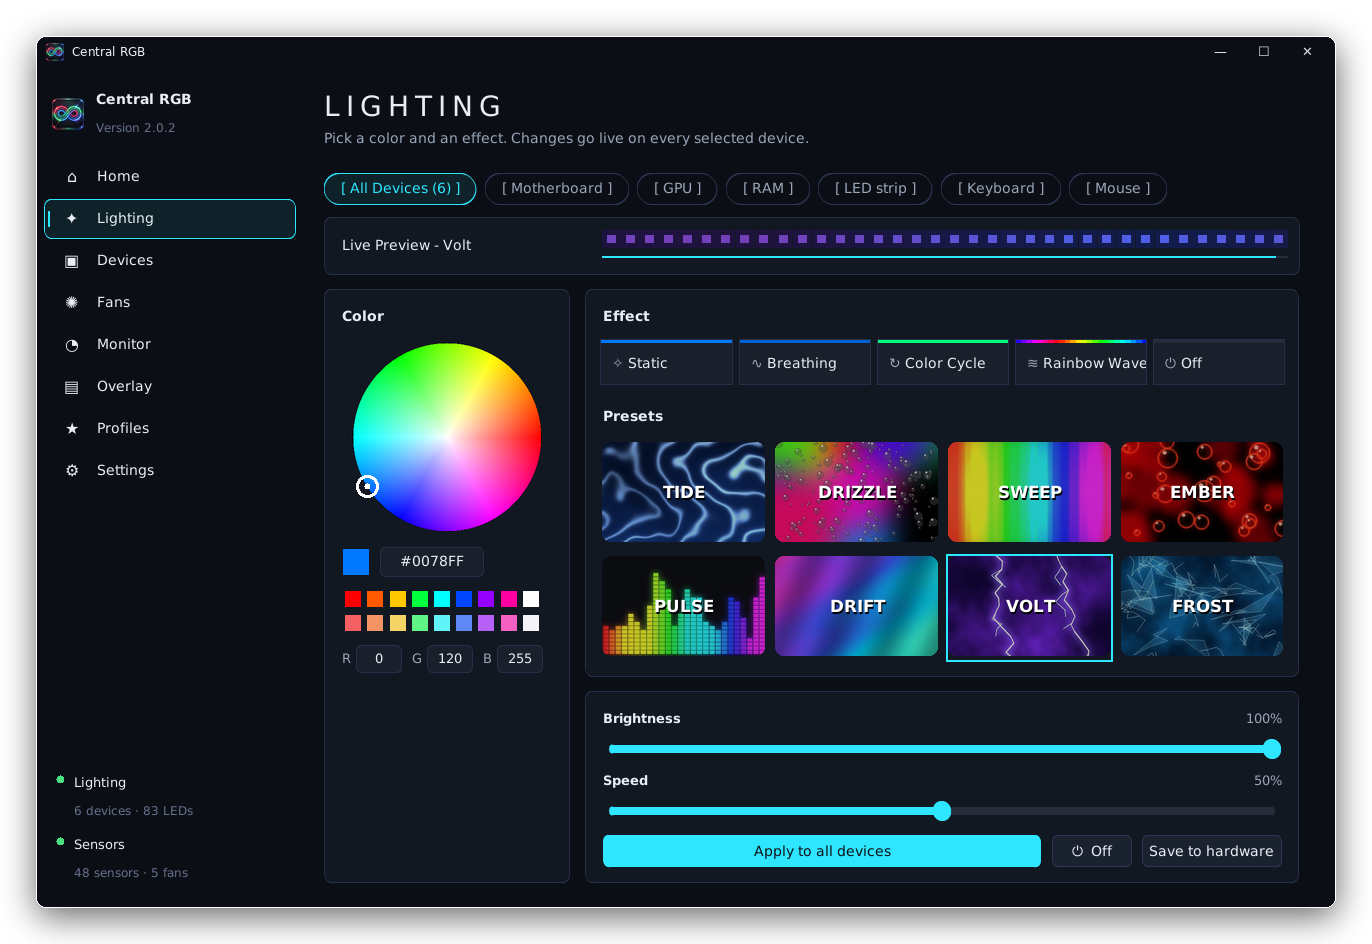
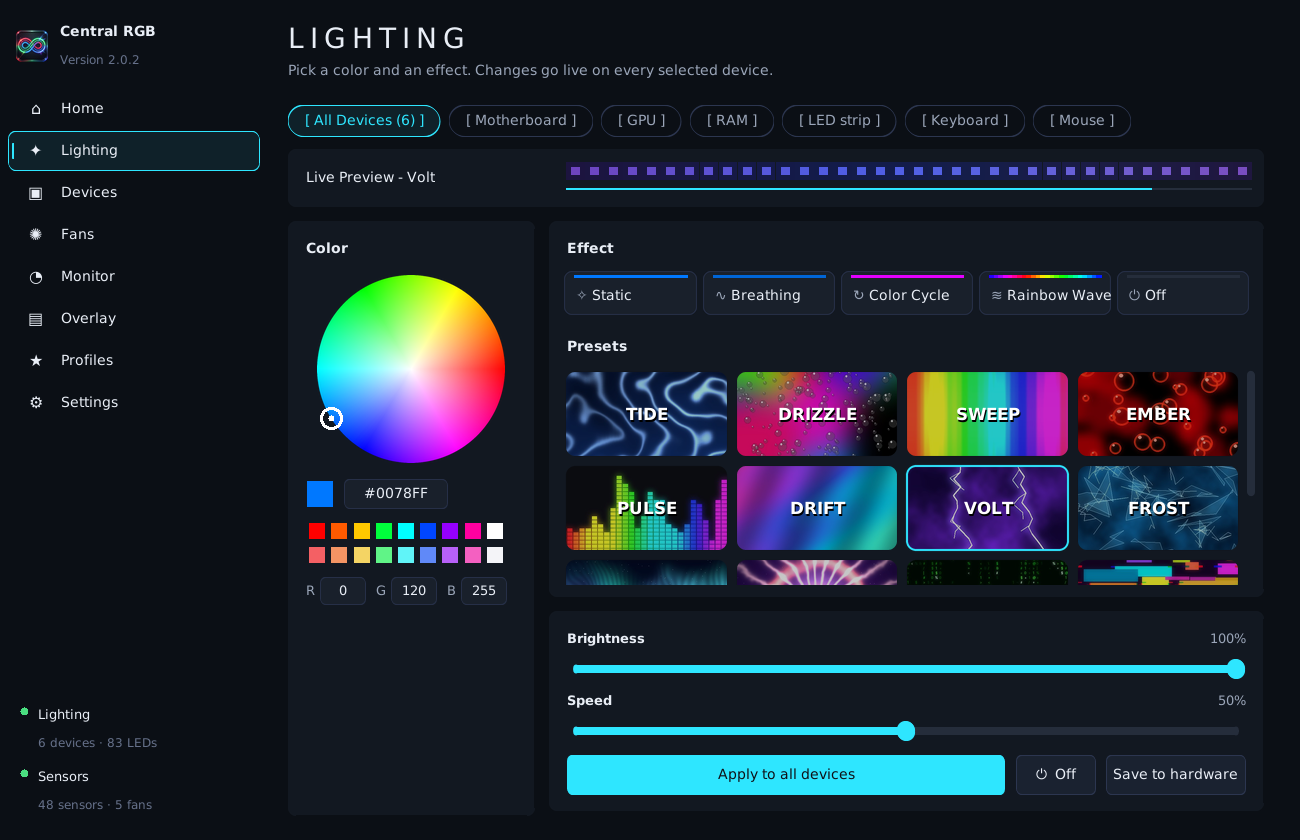
Eight new presets: Aurora, Supernova, Cascade, Cyberpunk, Magma, Stardust, Nebula, Eclipse
- Live effects for each, plus original preview artwork from tools/make_preset_art.py
- Preset gallery scrolls (two and a half rows show) so the page still fits

diff --git a/tools/make_preset_art.py b/tools/make_preset_art.py
@@ -179,11 +179,162 @@ def black_ice():
     return glow(img, 6, 0.6)
 
 
+def aurora():
+    n = noise(160, 3)
+    col = lerp((2, 6, 20), (6, 18, 48), Y / H)
+    for k, (c, x0) in enumerate((((40, 255, 160), 0.30), ((60, 220, 255), 0.55), ((170, 90, 255), 0.78))):
+        # tall flowing curtains: bright at the bottom edge, fading upwards
+        wave = np.sin(X / (60 + 25 * k) + n * 5 + k * 1.7) * 38
+        edge = H * (0.62 + 0.08 * k) + wave
+        up = np.clip((edge - Y) / (H * 0.55), 0, 1)
+        band = np.where(Y < edge, (1 - up) ** 1.6, np.exp(-(Y - edge) / 6)) * (0.45 + 0.55 * n)
+        stripes = 0.65 + 0.35 * np.sin(X / 5.5 + n * 20) ** 2
+        col = col + band[..., None] * stripes[..., None] * np.array(c, np.float32) * 0.75
+    img = to_img(col)
+    d = ImageDraw.Draw(img)
+    for _ in range(90):
+        x, y = rng.randint(0, W), rng.randint(0, int(H * 0.45))
+        v = rng.randint(120, 255)
+        d.point((x, y), fill=(v, v, v))
+    return glow(img, 10, 0.55)
+
+
+def supernova():
+    cx, cy = W * 0.5, H * 0.52
+    r = np.hypot(X - cx, Y - cy) + 1e-3
+    ang = np.arctan2(Y - cy, X - cx)
+    n = noise(70, 4)
+    rays = (0.5 + 0.5 * np.sin(ang * 23 + n * 4)) ** 6 * np.exp(-r / 210)
+    core = np.exp(-r / 26)
+    shell = np.exp(-((r - 118 - n * 30) / 16) ** 2)
+    col = lerp((4, 2, 22), (40, 10, 70), np.exp(-r / 260))
+    col = col + shell[..., None] * np.array([255, 120, 60], np.float32) * (0.5 + n[..., None])
+    col = col + rays[..., None] * np.array([255, 210, 170], np.float32) * 1.4
+    col = col + core[..., None] * np.array([255, 245, 230], np.float32) * 2.2
+    col = col + np.exp(-r / 70)[..., None] * np.array([200, 80, 255], np.float32) * 0.6
+    img = to_img(col)
+    d = ImageDraw.Draw(img)
+    for _ in range(140):
+        x, y = rng.randint(0, W), rng.randint(0, H)
+        v = rng.randint(90, 255)
+        d.point((x, y), fill=(v, v, int(v * 0.9)))
+    return glow(img, 8, 0.6)
+
+
+def cascade():
+    img = Image.new("RGB", (W, H), (0, 6, 2))
+    d = ImageDraw.Draw(img)
+    glyphs = "01<>/\\|=+*#%&$@"
+    for col in range(0, W, 12):
+        head = rng.randint(-40, H + 60)
+        length = rng.randint(60, 220)
+        for y in range(0, H, 14):
+            dist = head - y
+            if 0 <= dist <= length:
+                k = 1 - dist / length
+                g = int(60 + 195 * k)
+                c = (int(200 * k ** 6), g, int(90 * k ** 3))
+                ch = rng.choice(glyphs)
+                if dist < 14:
+                    c = (210, 255, 220)
+                d.text((col, y), ch, fill=c)
+            elif rng.random() < 0.05:
+                d.text((col, y), rng.choice(glyphs), fill=(0, 45, 12))
+    return glow(img, 4, 0.9)
+
+
+def cyberpunk():
+    img = Image.new("RGB", (W, H), (18, 4, 30))
+    d = ImageDraw.Draw(img)
+    pal = [(255, 40, 200), (0, 240, 255), (255, 230, 40), (140, 60, 255), (255, 90, 120)]
+    for _ in range(70):                                            # glitch blocks
+        w, h = rng.randint(30, 180), rng.randint(6, 40)
+        x, y = rng.randint(-40, W), rng.randint(0, H)
+        c = rng.choice(pal)
+        d.rectangle((x, y, x + w, y + h), fill=tuple(int(v * rng.uniform(0.45, 1.0)) for v in c))
+    a = np.asarray(img, np.float32)
+    for _ in range(12):                                            # RGB channel shifts on scanline bands
+        y0 = rng.randint(0, H - 20)
+        h = rng.randint(4, 22)
+        shift = rng.randint(-26, 26)
+        a[y0:y0 + h, :, 0] = np.roll(a[y0:y0 + h, :, 0], shift, axis=1)
+        a[y0:y0 + h, :, 2] = np.roll(a[y0:y0 + h, :, 2], -shift, axis=1)
+    a *= (0.82 + 0.18 * (np.arange(H) % 3 != 0))[:, None, None]     # scanlines
+    return glow(to_img(a), 6, 0.45)
+
+
+def magma():
+    n = noise(110, 5)
+    cells = np.abs(np.sin(X / 34 + n * 9) * np.sin(Y / 30 + n * 7))
+    veins = np.exp(-cells * 9)
+    col = lerp((14, 2, 2), (60, 8, 4), n)
+    hot = np.clip(veins * (0.4 + n), 0, 1)
+    col = col + hot[..., None] * np.array([255, 110, 20], np.float32)
+    col = col + (hot ** 3)[..., None] * np.array([255, 220, 120], np.float32)
+    return glow(to_img(col), 7, 0.7)
+
+
+def stardust():
+    n = noise(150, 4)
+    col = lerp((2, 4, 16), (24, 20, 60), n ** 1.5)
+    col = col + (np.clip(n - 0.55, 0, 1) * 2)[..., None] * np.array([60, 40, 110], np.float32)
+    img = to_img(col)
+    d = ImageDraw.Draw(img)
+    for _ in range(700):
+        x, y = rng.randint(0, W), rng.randint(0, H)
+        v = rng.random()
+        c = (255, int(200 + 55 * v), int(140 + 100 * v)) if rng.random() < 0.5 else (200, 220, 255)
+        size = 0 if v < 0.85 else 1
+        d.ellipse((x - size, y - size, x + size, y + size), fill=tuple(int(ch * (0.35 + 0.65 * v)) for ch in c))
+    for _ in range(14):                                            # a few bright stars with spikes
+        x, y = rng.randint(0, W), rng.randint(0, H)
+        d.line((x - 7, y, x + 7, y), fill=(255, 245, 220))
+        d.line((x, y - 7, x, y + 7), fill=(255, 245, 220))
+    return glow(img, 3, 1.0)
+
+
+def nebula():
+    n1, n2 = noise(170, 5), noise(90, 4)
+    col = lerp((4, 2, 14), (60, 10, 90), n1 ** 1.3)
+    col = col + (np.clip(n2 - 0.45, 0, 1) * 1.8)[..., None] * np.array([255, 70, 170], np.float32) * n1[..., None]
+    col = col + (np.clip(n1 - 0.6, 0, 1) * 2.2)[..., None] * np.array([60, 140, 255], np.float32)
+    img = to_img(col)
+    d = ImageDraw.Draw(img)
+    for _ in range(160):
+        x, y = rng.randint(0, W), rng.randint(0, H)
+        v = rng.randint(100, 255)
+        d.point((x, y), fill=(v, v, v))
+    return glow(img, 9, 0.5)
+
+
+def eclipse():
+    cx, cy = W * 0.5, H * 0.5
+    r = np.hypot(X - cx, Y - cy)
+    ang = np.arctan2(Y - cy, X - cx)
+    n = noise(60, 4)
+    R = 78
+    corona = np.exp(-np.clip(r - R, 0, None) / (22 + 26 * n)) * (r > R - 2)
+    streams = (0.5 + 0.5 * np.sin(ang * 9 + n * 6)) ** 3 * np.exp(-np.clip(r - R, 0, None) / 90) * (r > R)
+    col = lerp((2, 2, 8), (10, 8, 24), np.exp(-r / 300))
+    col = col + corona[..., None] * np.array([255, 170, 80], np.float32) * 1.1
+    col = col + streams[..., None] * np.array([255, 120, 200], np.float32) * 0.6
+    rim = np.exp(-((r - R) / 2.5) ** 2)
+    col = col + rim[..., None] * np.array([255, 245, 220], np.float32) * 1.4
+    col = np.where((r < R - 1)[..., None], np.array([3, 3, 6], np.float32), col)
+    return glow(to_img(col), 8, 0.6)
+
+
 ART = {"tide": calm_water, "drizzle": rain, "sweep": side_to_side, "ember": crimson,
-       "pulse": rgbarz, "drift": gradient_wave, "volt": neon_storm, "frost": black_ice}
+       "pulse": rgbarz, "drift": gradient_wave, "volt": neon_storm, "frost": black_ice,
+       "aurora": aurora, "supernova": supernova, "cascade": cascade, "cyberpunk": cyberpunk,
+       "magma": magma, "stardust": stardust, "nebula": nebula, "eclipse": eclipse}
 
 if __name__ == "__main__":
     OUT.mkdir(exist_ok=True)
+    import sys
+    only = sys.argv[1:]                    # e.g. "aurora magma" to (re)make just those
     for name, fn in ART.items():
+        if only and name not in only:
+            continue
         fn().convert("RGB").save(OUT / f"{name}.jpg", quality=90, optimize=True)
         print("wrote", name)

diff --git a/rgb_engine.py b/rgb_engine.py
@@ -52,7 +52,8 @@ IS_WIN = os.name == "nt"
 NO_WINDOW = 0x08000000 if IS_WIN else 0  # CREATE_NO_WINDOW for helper commands
 
 BASIC_EFFECTS = ["Static", "Breathing", "Color Cycle", "Rainbow Wave", "Off"]
-PRESET_EFFECTS = ["Tide", "Drizzle", "Sweep", "Ember", "Pulse", "Drift", "Volt", "Frost"]
+PRESET_EFFECTS = ["Tide", "Drizzle", "Sweep", "Ember", "Pulse", "Drift", "Volt", "Frost",
+                  "Aurora", "Supernova", "Cascade", "Cyberpunk", "Magma", "Stardust", "Nebula", "Eclipse"]
 RENAMED = {'Calm Water': 'Tide', 'Rain': 'Drizzle', 'Side to Side': 'Sweep', 'Crimson': 'Ember', 'RGBarz': 'Pulse', 'Gradient Wave': 'Drift', 'Neon Storm': 'Volt', 'Black Ice': 'Frost'}   # older preset names, kept so saved settings still work
 EFFECTS = BASIC_EFFECTS[:4] + PRESET_EFFECTS + ["Off"]
 ANIMATED = set(EFFECTS) - {"Static", "Off"}
@@ -470,6 +471,78 @@ def _preset(effect, n, t, offset=0.0):
         for i in range(n):
             v = (0.5 + 0.5 * math.sin(t * (0.6 + 1.5 * _rnd(i, 5)) + _rnd(i, 6 + offset) * 6.28)) ** 6
             out.append(_mix((0, 10, 22), (150, 235, 255), v))
+    elif effect == "Aurora":        # green, teal and violet curtains rippling along
+        stops = [(20, 255, 140), (0, 210, 220), (120, 70, 255), (20, 255, 140)]
+        for i in range(n):
+            x = i / max(1, n)
+            ripple = 0.5 + 0.5 * math.sin(x * 11 + t * 1.1 + offset * 6) * math.sin(x * 3.7 - t * 0.45)
+            col = _palette(stops, (x * 0.6 + t * 0.06 + offset) % 1.0)
+            out.append(_mix((0, 8, 20), col, 0.25 + 0.75 * ripple))
+    elif effect == "Supernova":     # a white-hot flash bursts from the middle and cools outwards
+        period = 2.6
+        ph = (t + offset * 3) % period / period
+        for i in range(n):
+            d = abs((i + 0.5) / n - 0.5) * 2 if n > 1 else 0.0       # 0 centre .. 1 ends
+            front = ph * 1.3
+            k = math.exp(-((d - front) / 0.16) ** 2)
+            heat = max(0.0, 1 - (front - d) * 2.2) if d < front else 0.0
+            col = _palette([(255, 250, 235), (255, 170, 60), (255, 60, 150), (90, 30, 200)], min(0.999, ph * 0.9 + d * 0.3))
+            glow = _mix((8, 2, 30), col, max(k, heat * 0.55))
+            out.append(glow)
+    elif effect == "Cascade":       # green code streams falling down the strip, each with a fading trail
+        drops = 4
+        lv = [0.0] * n
+        head_at = [False] * n
+        for k in range(drops):
+            speed = 0.035 + 0.04 * _rnd(k, 31)
+            head = ((t * speed + _rnd(k, 32) + offset) % 1.5) - 0.2       # runs off the end, then restarts
+            for i in range(n):
+                d = head - (i + 0.5) / n
+                if 0 <= d < 0.45:
+                    lv[i] = max(lv[i], 1 - d / 0.45)
+                    head_at[i] = head_at[i] or d < 1.5 / max(1, n)
+        for i in range(n):
+            k = lv[i]
+            out.append((200, 255, 215) if head_at[i] else (int(30 * k ** 4), int(14 + 230 * k ** 1.5), int(30 * k ** 2)))
+    elif effect == "Cyberpunk":     # neon blocks that glitch between magenta, cyan and yellow
+        pal = [(255, 40, 200), (0, 240, 255), (255, 225, 30), (150, 60, 255)]
+        slot = int(t * 2.2)
+        glitch = _rnd(int(t * 9), 41 + offset) < 0.12
+        for i in range(n):
+            block = int(i / max(1, n) * 6 + _rnd(slot, 43) * 3)
+            col = pal[int(_rnd(block, slot + 50) * len(pal)) % len(pal)]
+            if glitch and _rnd(i, int(t * 9) + 60) < 0.5:
+                col = pal[(pal.index(col) + 1) % len(pal)]
+            out.append(col)
+    elif effect == "Magma":         # dark rock with slow molten veins flowing through it
+        for i in range(n):
+            x = i / max(1, n)
+            v = math.sin(x * 13 + t * 0.6 + offset * 5) * math.sin(x * 5.3 - t * 0.35 + _rnd(i, 70))
+            v = max(0.0, v) ** 2
+            col = _palette([(40, 4, 2), (255, 70, 10), (255, 190, 60), (255, 240, 180)], min(0.999, v))
+            out.append(_mix((22, 2, 0), col, 0.3 + 0.7 * min(1.0, v * 1.6)))
+    elif effect == "Stardust":      # deep navy with warm and cool sparkles twinkling
+        for i in range(n):
+            rate = 0.8 + 2.4 * _rnd(i, 80)
+            v = (0.5 + 0.5 * math.sin(t * rate + _rnd(i, 81 + offset) * 6.28)) ** 12
+            star = (255, 225, 170) if _rnd(i, 82) < 0.5 else (190, 215, 255)
+            out.append(_mix((6, 6, 28), star, v))
+    elif effect == "Nebula":        # slow churning purple, pink and blue clouds
+        stops = [(70, 10, 120), (255, 60, 170), (60, 120, 255), (120, 30, 200), (70, 10, 120)]
+        for i in range(n):
+            x = i / max(1, n)
+            w = 0.5 + 0.3 * math.sin(x * 4 + t * 0.35 + offset * 4) + 0.2 * math.sin(x * 9 - t * 0.6)
+            out.append(_mix((10, 2, 24), _palette(stops, (x * 0.5 + t * 0.04) % 1.0), 0.35 + 0.65 * w))
+    elif effect == "Eclipse":       # a dark disc drifts along with a bright corona around it
+        pos = (t * 0.18 + offset) % 1.4 - 0.2
+        for i in range(n):
+            d = abs((i + 0.5) / n - pos) if n > 1 else 0.3
+            if d < 0.08:
+                out.append((2, 2, 6))
+                continue
+            k = math.exp(-(d - 0.08) / 0.07)
+            col = _mix((255, 150, 60), (255, 245, 225), math.exp(-(d - 0.08) / 0.025))
+            out.append(_mix((14, 6, 26), col, k))
     return out or [(0, 0, 0)] * n
 
 

diff --git a/central_rgb.py b/central_rgb.py
@@ -83,7 +83,9 @@ EFFECT_INFO = {"Static": "Solid color", "Breathing": "Slow fade", "Color Cycle":
                "Rainbow Wave": "Flowing rainbow", "Off": "Lights off", "Tide": "Slow blue waves",
                "Drizzle": "Falling color drops", "Sweep": "Sweeping rainbow bar", "Ember": "Glowing red embers",
                "Pulse": "Bouncing equalizer", "Drift": "Drifting gradient", "Volt": "Lightning flashes",
-               "Frost": "Cold glints"}
+               "Frost": "Cold glints", "Aurora": "Northern lights", "Supernova": "Bursting star",
+               "Cascade": "Falling code", "Cyberpunk": "Neon glitch", "Magma": "Molten veins",
+               "Stardust": "Twinkling stars", "Nebula": "Drifting clouds", "Eclipse": "Moving corona"}
 TYPE_ICONS = {"Motherboard": "▦", "RAM": "▥", "GPU": "▣", "Cooler": "✺", "LED strip": "┅",
               "Keyboard": "⌨", "Mouse": "◖", "Mousepad": "▭", "Headset": "◠", "Headset stand": "⊥",
               "Case": "▢", "Light": "✦", "Speaker": "◉", "Other": "◆"}
@@ -802,7 +804,8 @@ class CurveEditor(tk.Canvas):
 # ----------------------------------------------------------------------------- composite widgets
 EFFECT_ICONS = {"Static": "✧", "Breathing": "∿", "Color Cycle": "↻", "Rainbow Wave": "≋", "Tide": "≈",
                 "Drizzle": "⁖", "Sweep": "⇆", "Ember": "◉", "Pulse": "▮", "Drift": "∿",
-                "Volt": "ϟ", "Frost": "❄", "Off": "⏻"}
+                "Volt": "ϟ", "Frost": "❄", "Aurora": "≋", "Supernova": "✺", "Cascade": "⋮",
+                "Cyberpunk": "▚", "Magma": "◉", "Stardust": "✧", "Nebula": "☁", "Eclipse": "◐", "Off": "⏻"}
 
 
 PRESET_FILES = {name: "presets/" + name.lower().replace(" ", "-") + ".jpg" for name in eng.PRESET_EFFECTS}
@@ -1741,12 +1744,14 @@ class App(ctk.CTk):
         yield
         self.caption(ec, "Presets").pack(fill="x", padx=18, pady=(4, 6))
         yield
-        pg = ctk.CTkFrame(ec, fg_color="transparent")
+        # 16 presets: about two and a half rows show, the rest scroll into view
+        pg = ctk.CTkScrollableFrame(ec, fg_color=P["CARD"], height=218, corner_radius=0,
+                                    scrollbar_button_color=P["TRACK"], scrollbar_button_hover_color=P["LINE"])
         yield
-        pg.pack(fill="x", padx=12, pady=(0, 12))
+        pg.pack(fill="x", padx=(12, 4), pady=(0, 12))
         yield
         for i, name in enumerate(eng.PRESET_EFFECTS):
-            t = PresetTile(pg, name, self._set_effect)
+            t = PresetTile(pg, name, self._set_effect, height=88)
             t.grid(row=i // 4, column=i % 4, sticky="nsew", padx=3, pady=3)
             pg.grid_columnconfigure(i % 4, weight=1, uniform="p")
             self.tiles[name] = t

diff --git a/README.md b/README.md
@@ -15,7 +15,7 @@
 A free and open-source Windows desktop app that controls **all the RGB lighting in your PC from one place**, and also handles **fan control** and **system monitoring**. Central RGB finds your hardware automatically, sets up the drivers and engines it needs, and lets you change every device's color at once.
 
 - **Finds your RGB hardware automatically**: motherboards, graphics cards, RAM, LED strips, coolers, keyboards, mice and more
-- **Sets every device at once** with a color wheel, swatches, RGB values, brightness and speed. Five basic effects (Static, Breathing, Color Cycle, Rainbow Wave, Off) plus a **preset gallery** with picture previews: Tide, Drizzle, Sweep, Ember, Pulse, Drift, Volt and Frost
+- **Sets every device at once** with a color wheel, swatches, RGB values, brightness and speed. Five basic effects (Static, Breathing, Color Cycle, Rainbow Wave, Off) plus a **preset gallery** of 16 effects with picture previews: Tide, Drizzle, Sweep, Ember, Pulse, Drift, Volt, Frost, Aurora, Supernova, Cascade, Cyberpunk, Magma, Stardust, Nebula and Eclipse
 - **Per-device lighting**: click Customize on a device to see a model of it (RAM stick, graphics card, fans, cooler, keyboard, mouse, board) lit with its live colors, plus its exact model details, and give it its own effect, color and brightness
 - **Fan control** with Silent, Balanced, Performance and Max profiles, or a **custom fan curve you drag into shape**, with built-in safety limits
 - **System monitor**: live CPU, GPU and memory gauges, network and storage graphs, and an **Advanced** view with every hardware sensor and full system details
@@ -216,7 +216,7 @@ EMERGENCY_TEMP = 90   # CPU or GPU at 90 °C or more -> every fan to 100 %
 | Page | What you can do |
 |---|---|
 | Home | See your devices, current lighting, fan profile and CPU/GPU temperatures. Quick actions: Rainbow, all lights off, fan profile, game overlay on/off |
-| Lighting | Color wheel, hex code, 9 presets, 5 effects, brightness, speed, apply to all devices, save to hardware |
+| Lighting | Color wheel, hex code, 18 color swatches, 16 preset effects, 5 basic effects, brightness, speed, apply to all devices, save to hardware |
 | Devices | See every device and its LED count, switch devices on or off, rescan |
 | Fans | Profiles, custom curve, live CPU and GPU temperatures, a manual slider per fan (tap **MANUAL ↺** to go back to the curve) |
 | Monitor → Overview | CPU / GPU / RAM gauges and graphs, network up/down, drive usage, uptime, power draw |
